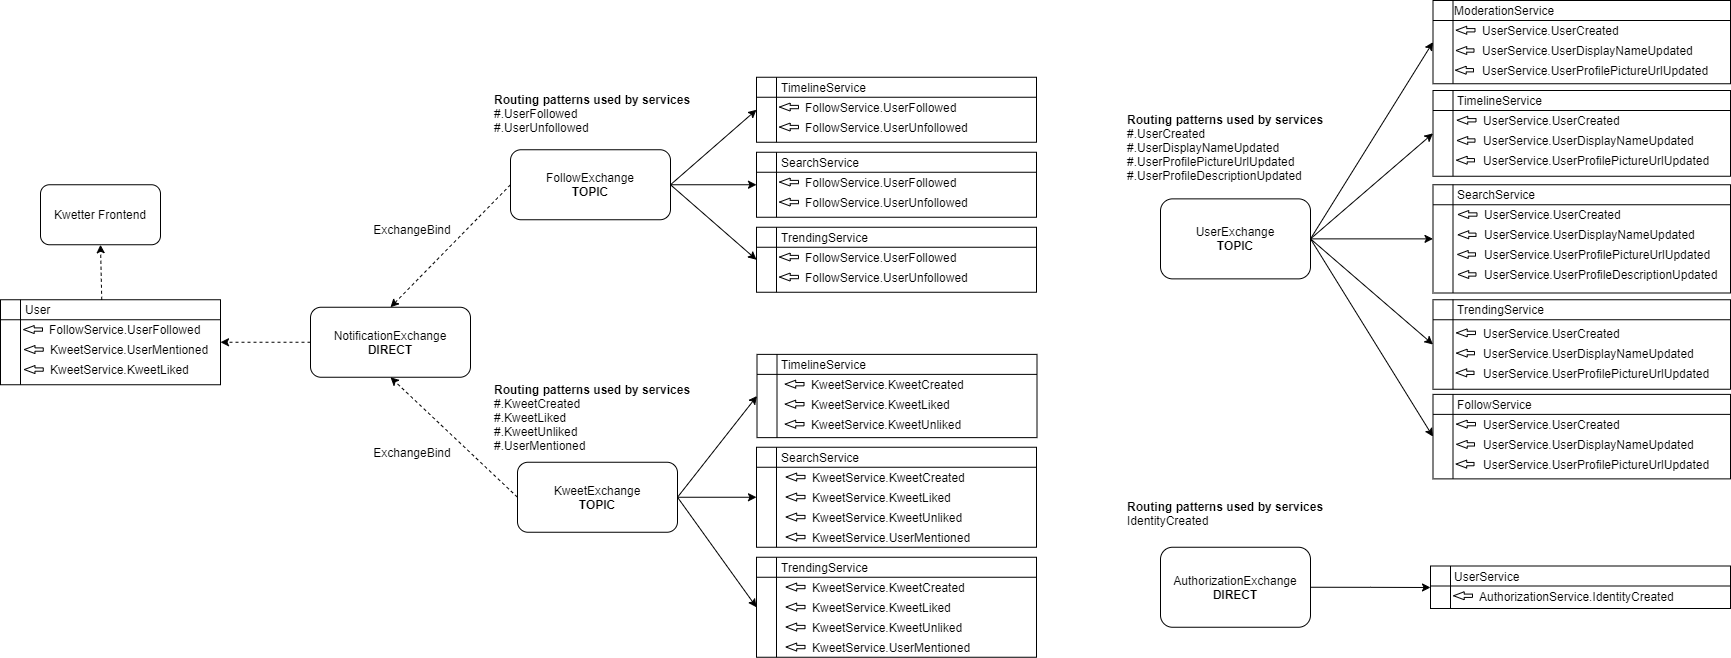
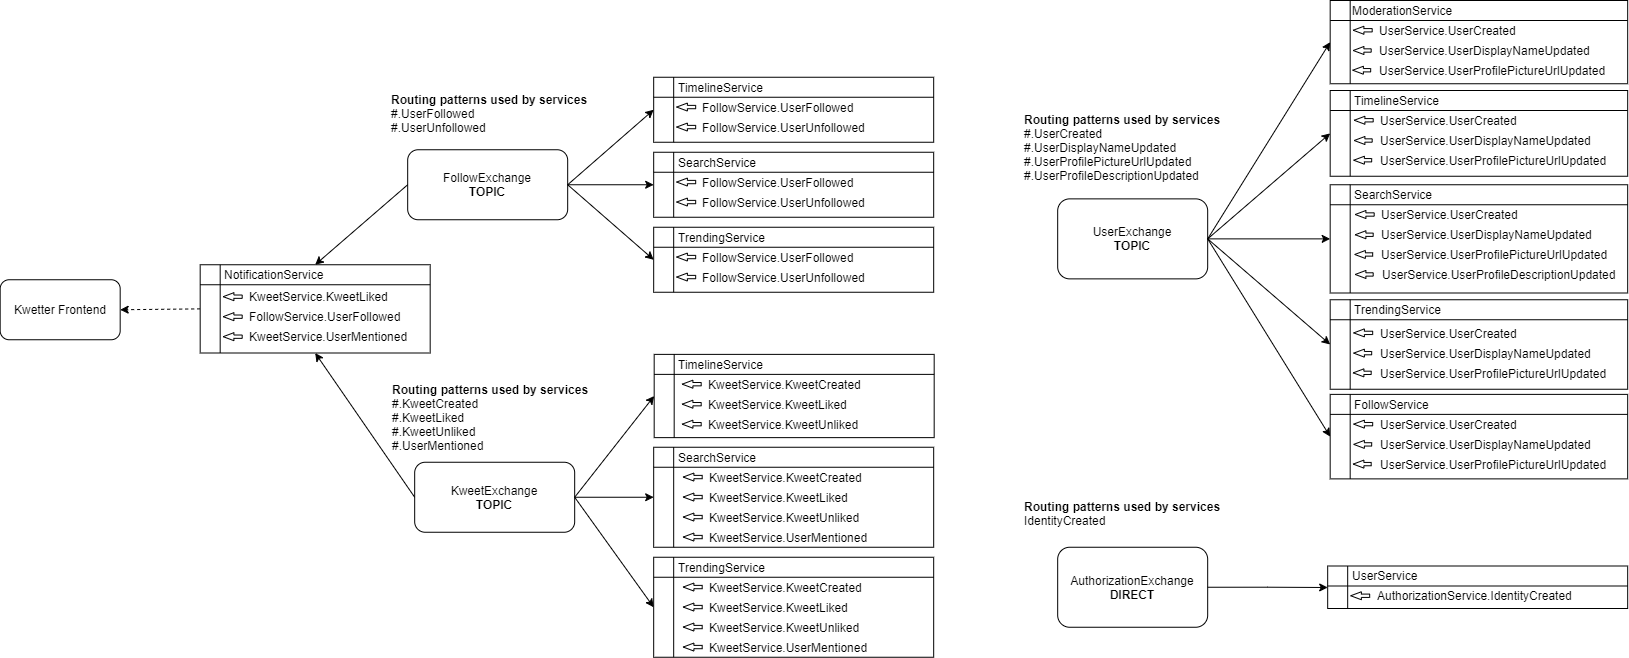
Updated redis deployment Updated diagrams

diff --git a/README.md b/README.md
@@ -13,6 +13,7 @@ The goal is to learn about enterprise software development; scalable architectur
 
 ### 2.1 Messaging Patterns
 ![Kwetter messaging](/docs/diagrams/kwetter%20messaging.png)
+![Kwetter notification](/docs/diagrams/kwetter%20notification.png)
 
 ### 2.2 Data Distribution
 ![Timeline graph](/docs/diagrams/timeline%20graph.png)
